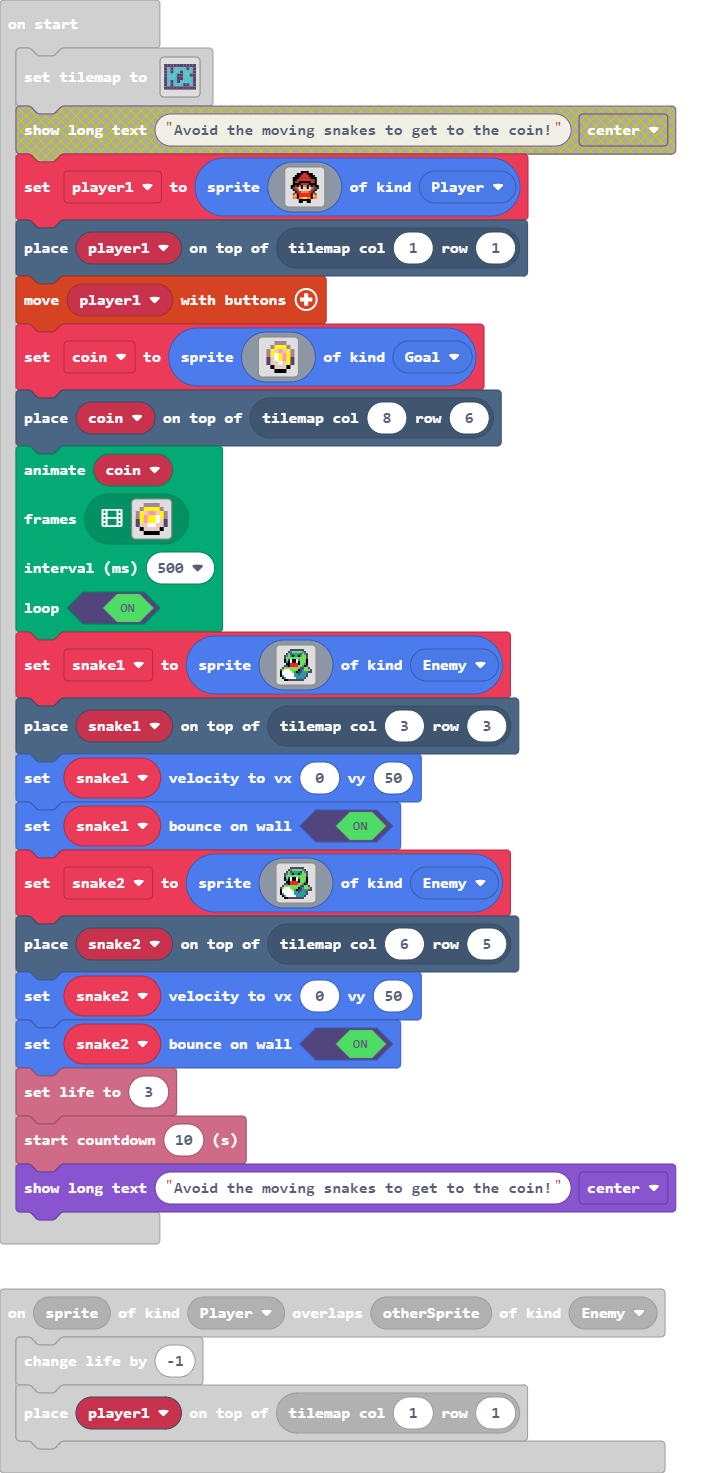
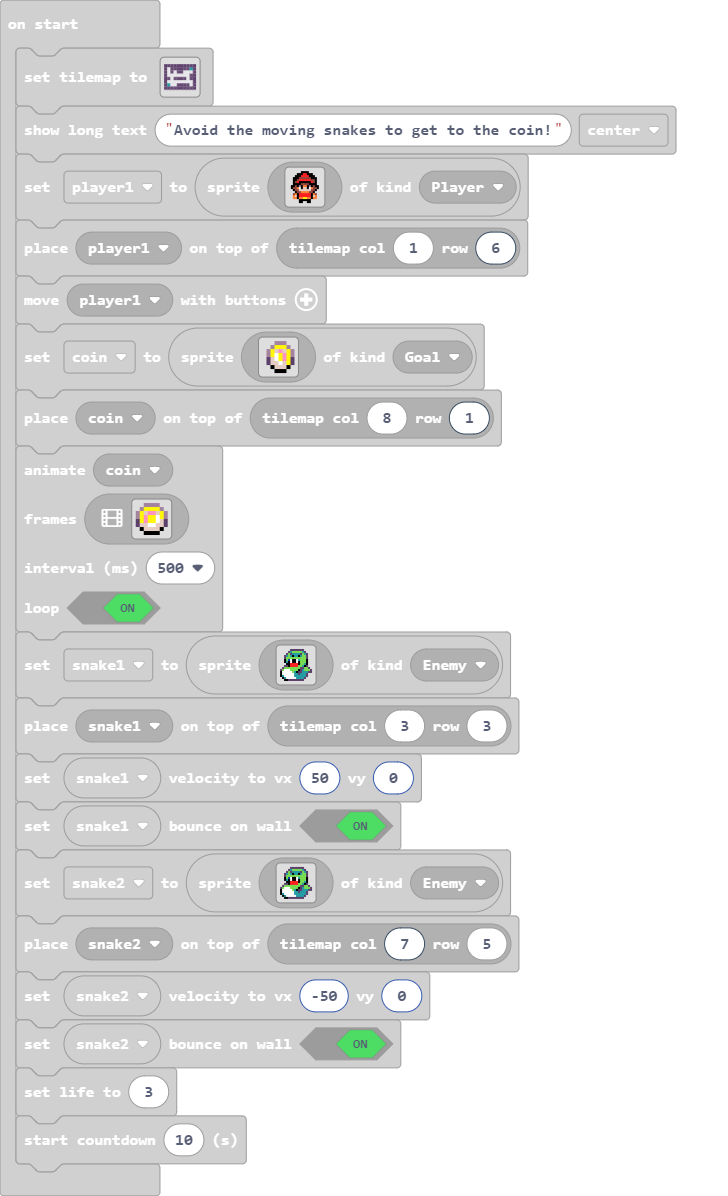
Update main.blocks, main.ts

diff --git a/main.ts b/main.ts
@@ -29,7 +29,7 @@ player1 = sprites.create(img`
     . . . . . f f f f f f . . . . . 
     . . . . . f f . . f f . . . . . 
     `, SpriteKind.Player)
-tiles.placeOnTile(player1, tiles.getTileLocation(1, 1))
+tiles.placeOnTile(player1, tiles.getTileLocation(1, 6))
 controller.moveSprite(player1)
 let coin = sprites.create(img`
     . . . b b b . . 
@@ -41,7 +41,7 @@ let coin = sprites.create(img`
     . . f d d d f . 
     . . . f f f . . 
     `, SpriteKind.Goal)
-tiles.placeOnTile(coin, tiles.getTileLocation(8, 6))
+tiles.placeOnTile(coin, tiles.getTileLocation(8, 1))
 animation.runImageAnimation(
 coin,
 [img`
@@ -121,7 +121,7 @@ let snake1 = sprites.create(img`
     . . f f c c c c c c c c . . . . 
     `, SpriteKind.Enemy)
 tiles.placeOnTile(snake1, tiles.getTileLocation(3, 3))
-snake1.setVelocity(0, 50)
+snake1.setVelocity(50, 0)
 snake1.setBounceOnWall(true)
 let snake2 = sprites.create(img`
     . . . . . c c c c c c c . . . . 
@@ -141,8 +141,8 @@ let snake2 = sprites.create(img`
     . f 6 1 1 1 1 1 6 6 6 6 c . . . 
     . . f f c c c c c c c c . . . . 
     `, SpriteKind.Enemy)
-tiles.placeOnTile(snake2, tiles.getTileLocation(6, 5))
-snake2.setVelocity(0, 50)
+tiles.placeOnTile(snake2, tiles.getTileLocation(7, 5))
+snake2.setVelocity(-50, 0)
 snake2.setBounceOnWall(true)
 info.setLife(3)
 info.startCountdown(10)
